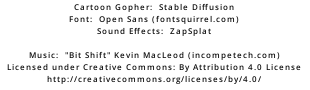
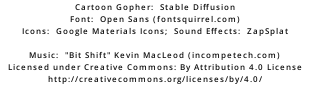
WEB-1149 - Add fullscreen toggle for desktop build
Also removed now-unused EMSCRIPTEN_IDE_WORKAROUNDS option
Added a guard against building for Emscripten without EMSDK env var

diff --git a/sdl2-emscripten/src/main/GopherGame.cpp b/sdl2-emscripten/src/main/GopherGame.cpp
@@ -24,7 +24,7 @@
 
 #include "GopherGame.hpp"
 
-#if defined(__EMSCRIPTEN__) || defined(EMSCRIPTEN_IN_IDE)
+#ifdef __EMSCRIPTEN__
 EM_JS(int, get_canvas_width, (), {
 	return document.getElementById("canvas").width;
 });
@@ -63,11 +63,17 @@ struct GopherGame::Impl {
 	SDL_Texture* attributionTexture = nullptr;
 	SDL_Texture* smallAttributionTexture = nullptr;
 
+	SDL_Texture* fullscreenIconTexture = nullptr;
+
 	Mix_Chunk* gopherAppearSfx = nullptr;
 	Mix_Chunk* gopherHitSfx = nullptr;
 	Mix_Chunk* gopherDisappearSfx = nullptr;
 
 	GopherGameState gameState = GopherGameState::WAIT_TO_START;
+	
+	bool isFullscreen = false;
+	bool mouseRecoveredFromFullscreenToggle = true;
+
 	std::mt19937 prng{ std::random_device{}() }; // Could be marked "mutable"
 	int hitCount = 0;
 	int missCount = 0;
@@ -100,6 +106,8 @@ struct GopherGame::Impl {
 
 			this->attributionTexture = IMG_LoadTexture(this->renderer, "resources/attribution-text-block.png");
 			this->smallAttributionTexture = IMG_LoadTexture(this->renderer, "resources/attribution-text-block-small.png");
+
+			this->fullscreenIconTexture = IMG_LoadTexture(this->renderer, "resources/fullscreen-icons.png");
 
 			this->gopherAppearSfx = Mix_LoadWAV("resources/gopher-appears.ogg");
 			this->gopherHitSfx = Mix_LoadWAV("resources/gopher-hit.ogg");
@@ -142,6 +150,11 @@ struct GopherGame::Impl {
 			this->smallAttributionTexture = nullptr;
 		}
 
+		if (this->fullscreenIconTexture != nullptr) {
+			SDL_DestroyTexture(this->fullscreenIconTexture);
+			this->fullscreenIconTexture = nullptr;
+		}
+
 		if (this->gopherAppearSfx != nullptr) {
 			Mix_FreeChunk(this->gopherAppearSfx);
 			this->gopherAppearSfx = nullptr;
@@ -166,7 +179,7 @@ struct GopherGame::Impl {
 	}
 
 	SDL_Window* createWindow() {
-#if defined(__EMSCRIPTEN__) || defined(EMSCRIPTEN_IN_IDE)
+#ifdef __EMSCRIPTEN__
 		int windowWidth = get_canvas_width();
 		int windowHeight = get_canvas_height();
 		int windowFlags = 0;
@@ -197,7 +210,15 @@ struct GopherGame::Impl {
 		return result;
 	}
 
-	void onWindowResize() const {
+	SDL_Rect resolveFullscreenIconRect() const {
+		int windowWidth = 0, windowHeight = 0;
+		SDL_RenderGetLogicalSize(this->renderer, &windowWidth, &windowHeight);
+
+		SDL_Rect result = { windowWidth - 48, 12, 32, 32 };
+		return result;
+	}
+
+	void onWindowResize() {
 		int windowWidth = 0, windowHeight = 0;
 		SDL_GetWindowSize(this->window, &windowWidth, &windowHeight);
 
@@ -211,6 +232,21 @@ struct GopherGame::Impl {
 		bool logicalSizeEqualsWindowSize = ((logicalWindowSize.x == windowWidth) && (logicalWindowSize.y == windowHeight));
 		SDL_RenderSetLogicalSize(this->renderer, logicalWindowSize.x, logicalWindowSize.y);
 		SDL_RenderSetIntegerScale(this->renderer, logicalSizeEqualsWindowSize ? SDL_TRUE : SDL_FALSE);
+
+		if ( !this->mouseRecoveredFromFullscreenToggle ) {
+			SDL_Rect fullscreenIconRect = this->resolveFullscreenIconRect();
+			SDL_WarpMouseInWindow(this->window, fullscreenIconRect.x, fullscreenIconRect.y);
+
+			this->mouseRecoveredFromFullscreenToggle = true;
+		}
+	}
+
+	void toggleFullscreen() {
+		this->isFullscreen = !this->isFullscreen;
+		this->mouseRecoveredFromFullscreenToggle = false;
+
+		Uint32 flags = this->isFullscreen ? SDL_WINDOW_FULLSCREEN_DESKTOP : 0;
+		SDL_SetWindowFullscreen(this->window, flags);
 	}
 
 	bool isSmallWindowSize(int windowWidth, int windowHeight) const {
@@ -267,6 +303,20 @@ struct GopherGame::Impl {
 
 		SDL_Rect textRect = { (windowWidth / 2) - (textWidth / 2), windowHeight - textHeight, textWidth, textHeight };
 		SDL_RenderCopy(this->renderer, uiTexture, nullptr, &textRect);
+	}
+
+	void renderFullscreenIcon() const {
+		SDL_Rect srcRect = { this->isFullscreen ? 32 : 0, 0, 32, 32 };
+		SDL_Rect destRect = this->resolveFullscreenIconRect();
+
+		SDL_Point mousePos;
+		SDL_GetMouseState(&mousePos.x, &mousePos.y);
+		bool mouseIsOverIcon = SDL_PointInRect(&mousePos, &destRect);
+
+		Uint8 iconColorMod = mouseIsOverIcon ? 0xFF : 0xCC;
+		SDL_SetTextureColorMod(this->fullscreenIconTexture, iconColorMod, iconColorMod, iconColorMod);
+
+		SDL_RenderCopy(this->renderer, this->fullscreenIconTexture, &srcRect, &destRect);
 	}
 
 	void transitionToPlayGame() {
@@ -380,7 +430,13 @@ void GopherGame::handleEvent(const SDL_Event& event) {
 		}
 	}
 	else if (event.type == SDL_MOUSEBUTTONDOWN) {
-		if (ptr->gameState == GopherGameState::WAIT_TO_START) {
+		SDL_Point clickPoint{ event.button.x, event.button.y };
+		SDL_Rect fullscreenIconRect = ptr->resolveFullscreenIconRect();
+
+		if ( SDL_PointInRect(&clickPoint, &fullscreenIconRect) ) {
+			ptr->toggleFullscreen();
+		}
+		else if (ptr->gameState == GopherGameState::WAIT_TO_START) {
 			ptr->transitionToPlayGame();
 		}
 		else if (ptr->gameState == GopherGameState::PLAY_GAME) {
@@ -388,23 +444,28 @@ void GopherGame::handleEvent(const SDL_Event& event) {
 				(event.button.button == SDL_BUTTON_LEFT) &&
 				(ptr->gopherAppearanceState == GopherAppearanceState::APPEARED)
 			) {
-				SDL_Point clickPoint{ event.button.x, event.button.y };
 				ptr->attemptGopherHit(clickPoint);
 			}
 		}
 	}
 	else if (event.type == SDL_FINGERDOWN) {
-		if (ptr->gameState == GopherGameState::WAIT_TO_START) {
+		int windowWidth = 0, windowHeight = 0;
+		SDL_RenderGetLogicalSize(ptr->renderer, &windowWidth, &windowHeight);
+
+		SDL_Point clickPoint{ 0, 0 };
+		clickPoint.x = static_cast<int>(round(event.tfinger.x * windowWidth));
+		clickPoint.y = static_cast<int>(round(event.tfinger.y * windowHeight));
+
+		SDL_Rect fullscreenIconRect = ptr->resolveFullscreenIconRect();
+
+		if ( SDL_PointInRect(&clickPoint, &fullscreenIconRect) ) {
+			ptr->toggleFullscreen();
+		}
+		else if (ptr->gameState == GopherGameState::WAIT_TO_START) {
 			ptr->transitionToPlayGame();
 		}
 		else if (ptr->gameState == GopherGameState::PLAY_GAME) {
 			if (ptr->gopherAppearanceState == GopherAppearanceState::APPEARED) {
-				int windowWidth = 0, windowHeight = 0;
-				SDL_RenderGetLogicalSize(ptr->renderer, &windowWidth, &windowHeight);
-
-				SDL_Point clickPoint{ 0, 0 };
-				clickPoint.x = static_cast<int>(round(event.tfinger.x * windowWidth));
-				clickPoint.y = static_cast<int>(round(event.tfinger.y * windowHeight));
 				ptr->attemptGopherHit(clickPoint);
 			}
 		}
@@ -440,6 +501,8 @@ void GopherGame::render() {
 			SDL_RenderCopy(ptr->renderer, ptr->gopherHitTexture, nullptr, &gopherRect);
 		}
 	}
+
+	ptr->renderFullscreenIcon();
 
 	SDL_RenderPresent(ptr->renderer);
 }

diff --git a/sdl2-emscripten/src/main/main.cpp b/sdl2-emscripten/src/main/main.cpp
@@ -92,7 +92,7 @@ struct GameUserData {
 	GopherGame game;
 };
 
-#if defined(__EMSCRIPTEN__) || defined(EMSCRIPTEN_IN_IDE)
+#ifdef __EMSCRIPTEN__
 EM_BOOL em_resize_callback(int eventType, const EmscriptenUiEvent* uiEvent, void* userData) {
 	GameUserData* gameUserData = static_cast<GameUserData*>(userData);
 
@@ -140,7 +140,7 @@ static bool runGame() {
 
 	bool result = gameUserData.game.isInitialized();
 	if (result) {
-#if defined(__EMSCRIPTEN__) || defined(EMSCRIPTEN_IN_IDE)
+#ifdef __EMSCRIPTEN__
 		emscripten_set_resize_callback(EMSCRIPTEN_EVENT_TARGET_WINDOW, &gameUserData, false, em_resize_callback);
 		emscripten_set_main_loop_arg(gameLoop, &gameUserData, 0, true);
 #else
